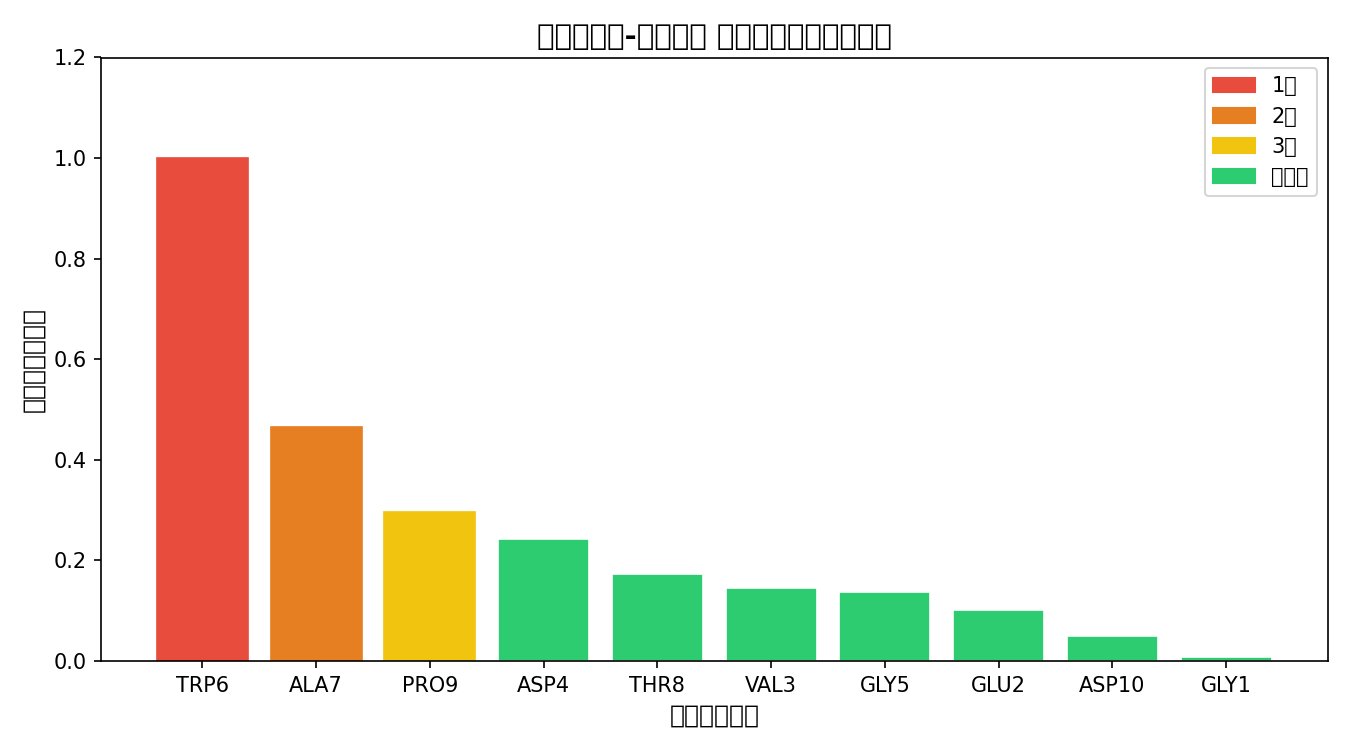
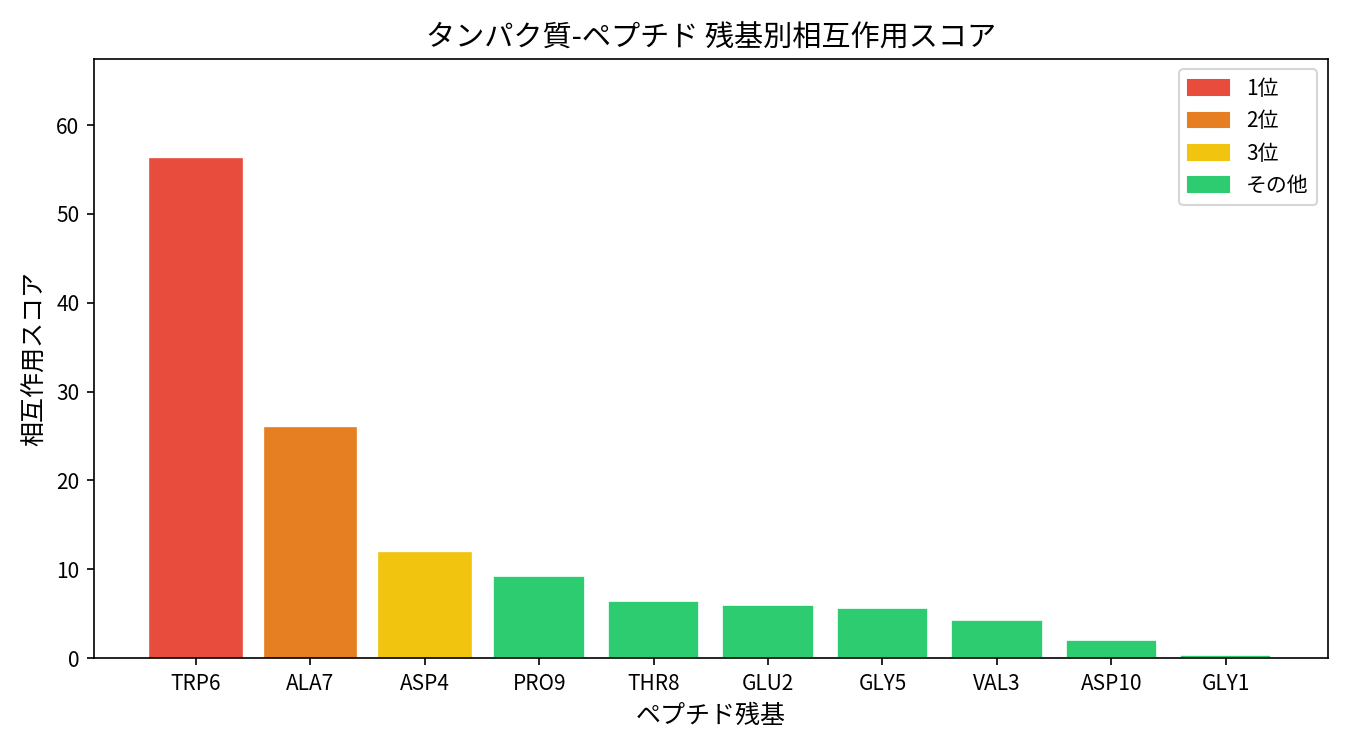
Fix garbled Japanese text in plot images
Add Noto Sans CJK JP font to plot_utils.py and regenerate all images.

diff --git a/plot_utils.py b/plot_utils.py
@@ -8,7 +8,8 @@ import matplotlib
 matplotlib.use("Agg")
 import matplotlib.pyplot as plt
 
-# macOS で利用可能な日本語フォントを優先順位順に設定
-plt.rcParams["font.family"] = ["Hiragino Sans", "Hiragino Maru Gothic Pro",
+# 日本語フォントを優先順位順に設定 (Linux / macOS 両対応)
+plt.rcParams["font.family"] = ["Noto Sans CJK JP",
+                                "Hiragino Sans", "Hiragino Maru Gothic Pro",
                                 "Arial Unicode MS", "DejaVu Sans"]
 plt.rcParams["axes.unicode_minus"] = False
